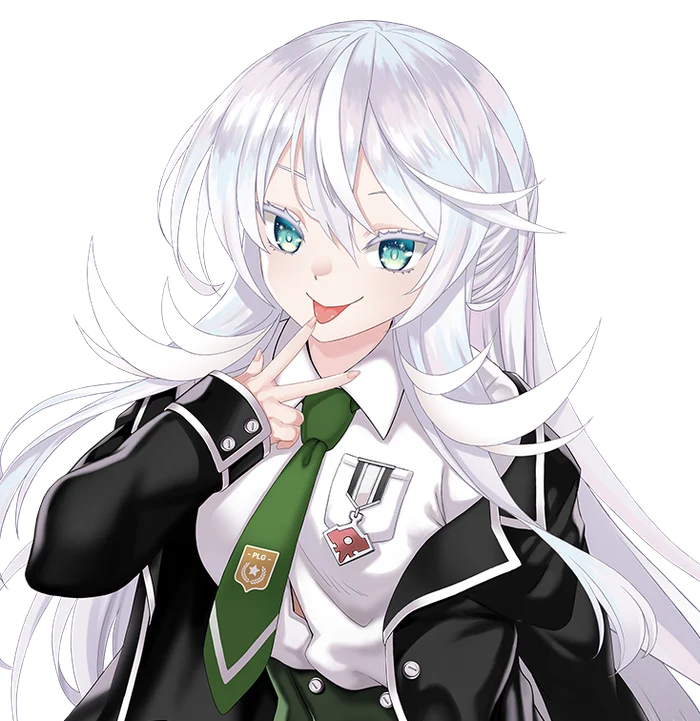
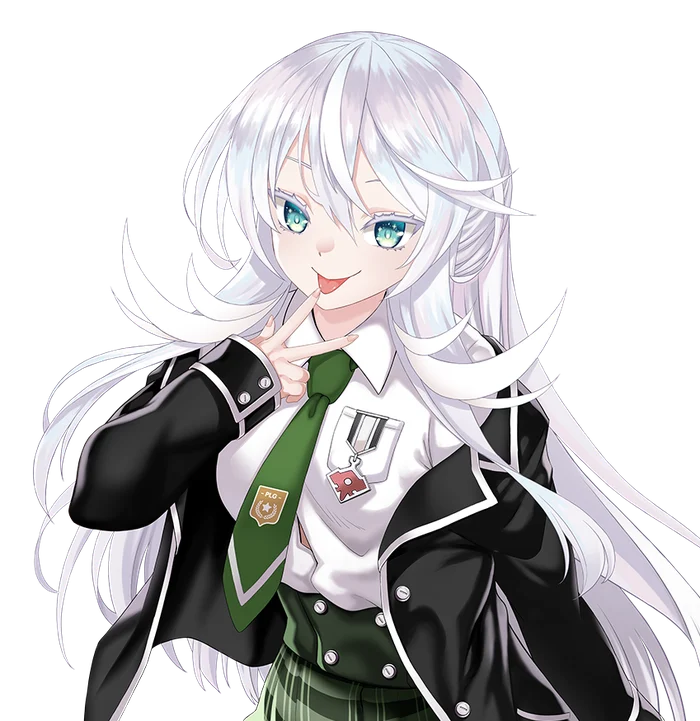
Wider second-look half-body for Anya and Riona
Claude-Session: https://claude.ai/code/session_0182ETGqkY6VZC2ACV9rE9Mb

diff --git a/index.html b/index.html
@@ -950,8 +950,8 @@ var TALENTS = [
   { id:'lucene', halves:['talent-lucene-half.webp'], card:'talent-lucene-half.webp', img:'talent-lucene.webp', face:'talent-lucene-face.webp?v=7',  name:'Lucene', short:'Lucene', ini:'LC', type:'VTuber', aff:{name:'Polygon', logo:'logos/polygon-mark.png'}, langs:['th','en'], color:'#FDE2EE', tags:['#Singing','#FreeTalk','#Gaming','#Gacha'], works:['promo','review','cover','collab','dub'], links:[['YouTube',83400,'https://www.youtube.com/@LucenePLG'],['TikTok',24071,'https://www.tiktok.com/@plglucene'],['Facebook',20102,'https://www.facebook.com/LucenePolygon'],['X',19508,'https://x.com/LucenePLG']], quote:['ลูเซเน่ กระต่ายอนิเมะผู้เสกความสดใสและชอบเสี่ยงดวง💸','Lucene, an anime bunny who conjures up cheer and loves to try her luck 💸'] },
   { id:'lapine', halves:['talent-lapine-half.webp?v=3'], card:'talent-lapine-half.webp?v=3', img:'talent-lapine.webp', face:'talent-lapine-face.webp?v=7',  name:'Lapine', short:'Lapine', ini:'LP', type:'VTuber', aff:{name:'Polygon', logo:'logos/polygon-mark.png'}, langs:['th','en'], color:'#FFD9E4', tags:['#Singing','#FreeTalk','#Gaming'], works:['promo','review','cover','collab','dub'], links:[['YouTube',69355,'https://www.youtube.com/@LapinePLG'],['TikTok',8885,'https://www.tiktok.com/@lapineplg'],['Facebook',16150,'https://www.facebook.com/LapinePolygon'],['X',20482,'https://x.com/LapinePLG']], quote:['ลาพิเน่ กระต่ายสีชมพูที่คุณดูแล้วต้องกำหมัด','Lapine, the pink bunny so cute you will clench your fists.'] },
   { id:'luxia', halves:['talent-luxia-half.webp?v=4'], card:'talent-luxia-half.webp?v=4', img:'talent-luxia.webp?v=3', face:'talent-luxia-face.webp?v=8',  name:'Luxia', short:'Luxia', ini:'LX', type:'VTuber', aff:{name:'Polygon', logo:'logos/polygon-mark.png'}, langs:['th'], color:'#E7E1F7', tags:['#Singing','#FreeTalk','#Gaming','#Drawing'], works:['promo','review','collab','dub'], links:[['YouTube',57079,'https://www.youtube.com/@LuxiaPLG'],['TikTok',15700,'https://www.tiktok.com/@luxiaplg'],['Facebook',12455,'https://www.facebook.com/LuxiaPolygon'],['X',16481,'https://x.com/LuxiaPLG']], quote:['ลูเซีย แม่ชีนักวาดผู้ไม่อาจหยุดความวายป่วง','Luxia, an artist nun who simply cannot stop the chaos.'] },
-  { id:'riona', halves:['talent-riona-half.webp?v=3','talent-riona-2-half.webp?v=3'], card:'talent-riona-half.webp?v=3', img:'talent-riona.webp', face:'talent-riona-face.webp?v=7', forms:['talent-riona.webp','talent-riona-2.webp'],  name:'Riona', short:'Riona', ini:'RN', type:'VTuber', aff:{name:'Polygon', logo:'logos/polygon-mark.png'}, langs:['th','en'], color:'#FFE7C7', tags:['#Singing','#FreeTalk','#Gaming','#RolePlay'], works:['promo','review','collab','dub'], links:[['YouTube',16208,'https://www.youtube.com/@RionaPLG'],['TikTok',4081,'https://www.tiktok.com/@rionaplg'],['Facebook',10980,'https://www.facebook.com/RionaPolygon'],['X',4583,'https://x.com/RionaPLG']], quote:['เสือ สวย รวย และน่าน้วยก็ได้ ประธานนักเรียนรุ่นที่ 10 โรงเรียน PLG ริโอน่า สวัสดีค่ะ','A tiger: pretty, rich, and cuddly if you like. Hello, I am Riona, 10th student council president of PLG School!'] },
-  { id:'anya', halves:['talent-anya-half.webp?v=3','talent-anya-2-half.webp?v=3'], card:'talent-anya-half.webp?v=3', img:'talent-anya.webp?v=2', face:'talent-anya-face.webp?v=7', forms:['talent-anya.webp?v=2','talent-anya-2.webp'],  name:'Anya', short:'Anya', ini:'AY', type:'VTuber', aff:{name:'Polygon', logo:'logos/polygon-mark.png'}, langs:['th'], color:'#DCEFE3', tags:['#Singing','#FreeTalk','#Gaming','#HandCam'], works:['promo','review','collab','dub'], links:[['YouTube',19635,'https://www.youtube.com/@AnyaPLG'],['TikTok',8095,'https://www.tiktok.com/@anyaplg'],['Facebook',7139,'https://www.facebook.com/AnyaPolygon'],['X',4071,'https://x.com/AnyaPLG']], quote:['ลึกแต่ไม่ลับ คับแต่ไม่แคบ ไม่ใช่แค่ช้าง แต่เป็นแมมมอธ แฮ่ !','Deep but no secrets, packed but never cramped. Not just an elephant, a mammoth. Rawr!'] },
+  { id:'riona', halves:['talent-riona-half.webp?v=3','talent-riona-2-half.webp?v=4'], card:'talent-riona-half.webp?v=3', img:'talent-riona.webp', face:'talent-riona-face.webp?v=7', forms:['talent-riona.webp','talent-riona-2.webp'],  name:'Riona', short:'Riona', ini:'RN', type:'VTuber', aff:{name:'Polygon', logo:'logos/polygon-mark.png'}, langs:['th','en'], color:'#FFE7C7', tags:['#Singing','#FreeTalk','#Gaming','#RolePlay'], works:['promo','review','collab','dub'], links:[['YouTube',16208,'https://www.youtube.com/@RionaPLG'],['TikTok',4081,'https://www.tiktok.com/@rionaplg'],['Facebook',10980,'https://www.facebook.com/RionaPolygon'],['X',4583,'https://x.com/RionaPLG']], quote:['เสือ สวย รวย และน่าน้วยก็ได้ ประธานนักเรียนรุ่นที่ 10 โรงเรียน PLG ริโอน่า สวัสดีค่ะ','A tiger: pretty, rich, and cuddly if you like. Hello, I am Riona, 10th student council president of PLG School!'] },
+  { id:'anya', halves:['talent-anya-half.webp?v=3','talent-anya-2-half.webp?v=4'], card:'talent-anya-half.webp?v=3', img:'talent-anya.webp?v=2', face:'talent-anya-face.webp?v=7', forms:['talent-anya.webp?v=2','talent-anya-2.webp'],  name:'Anya', short:'Anya', ini:'AY', type:'VTuber', aff:{name:'Polygon', logo:'logos/polygon-mark.png'}, langs:['th'], color:'#DCEFE3', tags:['#Singing','#FreeTalk','#Gaming','#HandCam'], works:['promo','review','collab','dub'], links:[['YouTube',19635,'https://www.youtube.com/@AnyaPLG'],['TikTok',8095,'https://www.tiktok.com/@anyaplg'],['Facebook',7139,'https://www.facebook.com/AnyaPolygon'],['X',4071,'https://x.com/AnyaPLG']], quote:['ลึกแต่ไม่ลับ คับแต่ไม่แคบ ไม่ใช่แค่ช้าง แต่เป็นแมมมอธ แฮ่ !','Deep but no secrets, packed but never cramped. Not just an elephant, a mammoth. Rawr!'] },
   { id:'monace', halves:['talent-monace-half.webp?v=4'], card:'talent-monace-half.webp?v=4', img:'talent-monace.webp', face:'talent-monace-face.webp?v=7',  name:'Monace', short:'Monace', ini:'MN', type:'VTuber', aff:{name:'Polygon', logo:'logos/polygon-mark.png'}, langs:['th','en'], color:'#D9E4F5', tags:['#Singing','#FreeTalk','#Gaming','#SongComposer'], works:['promo','review','cover','collab','dub'], links:[['YouTube',2608,'https://www.youtube.com/@MONACEPLG'],['TikTok',1735,'https://www.tiktok.com/@monaceplg'],['Facebook',558,'https://www.facebook.com/MONACEPLG'],['X',1477,'https://x.com/MONACEPLG']], quote:['แรปเปอร์ตัวตึงอาจจะดูเท่ แต่ใจดี พร้อมอยู่ข้างๆ ให้คุณรู้สึกสบายใจเสมอ โซโล โมเนซ ครับ 🪽','A rapper who may look tough but has a kind heart, always by your side to put you at ease. Solo Monace here 🪽'] },
   { id:'vinxiii', halves:['talent-vinxiii-half.webp?v=2'], card:'talent-vinxiii-half.webp?v=2', img:'talent-vinxiii.webp', face:'talent-vinxiii-face.webp?v=7',  name:'VinXIII', short:'VinXIII', ini:'VX', type:'VTuber', aff:{name:'Polygon', logo:'logos/polygon-mark.png'}, langs:['th'], color:'#F6E7C8', tags:['#Singing','#FreeTalk','#Gaming'], works:['promo','review','cover','collab'], links:[['YouTube',1715,'https://www.youtube.com/@VinXIIIPLG'],['TikTok',1187,'https://www.tiktok.com/@vinxiiiplg'],['Facebook',139,'https://www.facebook.com/VinXIIIPLG'],['X',2175,'https://x.com/VinXIIIPLG']], quote:['ถ้าตามหาคนที่จะทำให้หัวเราะได้ วินซี่ อยู่ตรงนี้เองครับ ที่ไม่ว่าอยู่ที่ไหนก็ทำให้บรรยากาศสดใสขึ้นทันที ⚜','Looking for someone to make you laugh? Vinzy is right here, brightening the room wherever he goes ⚜'] },
   { id:'augustine', halves:['talent-augustine-half.webp?v=5'], card:'talent-augustine-half.webp?v=5', img:'talent-augustine.webp', face:'talent-augustine-face.webp?v=7',  name:'Augustine', short:'Augustine', ini:'AG', type:'VTuber', aff:{name:'Polygon', logo:'logos/polygon-mark.png'}, langs:['th','en'], color:'#E3F0FA', tags:['#Singing','#FreeTalk','#Gaming','#Dentist'], works:['promo','review','cover','collab'], links:[['YouTube',10500,'https://www.youtube.com/@AugustinePLG'],['TikTok',37200,'https://www.tiktok.com/@augustineplg'],['Facebook',770,'https://www.facebook.com/AugustinePLG'],['X',4178,'https://x.com/AugustinePLG']], quote:['ออกัสทีนเองครับ มีทั้งความสวย ความหล่อ และพลังบวกที่จะทำให้คุณยิ้มได้ทุกวัน อยากมาลองชิมมั้ยครับ','Augustine here: pretty, handsome and full of good vibes to make you smile every day. Care for a taste?'] },
